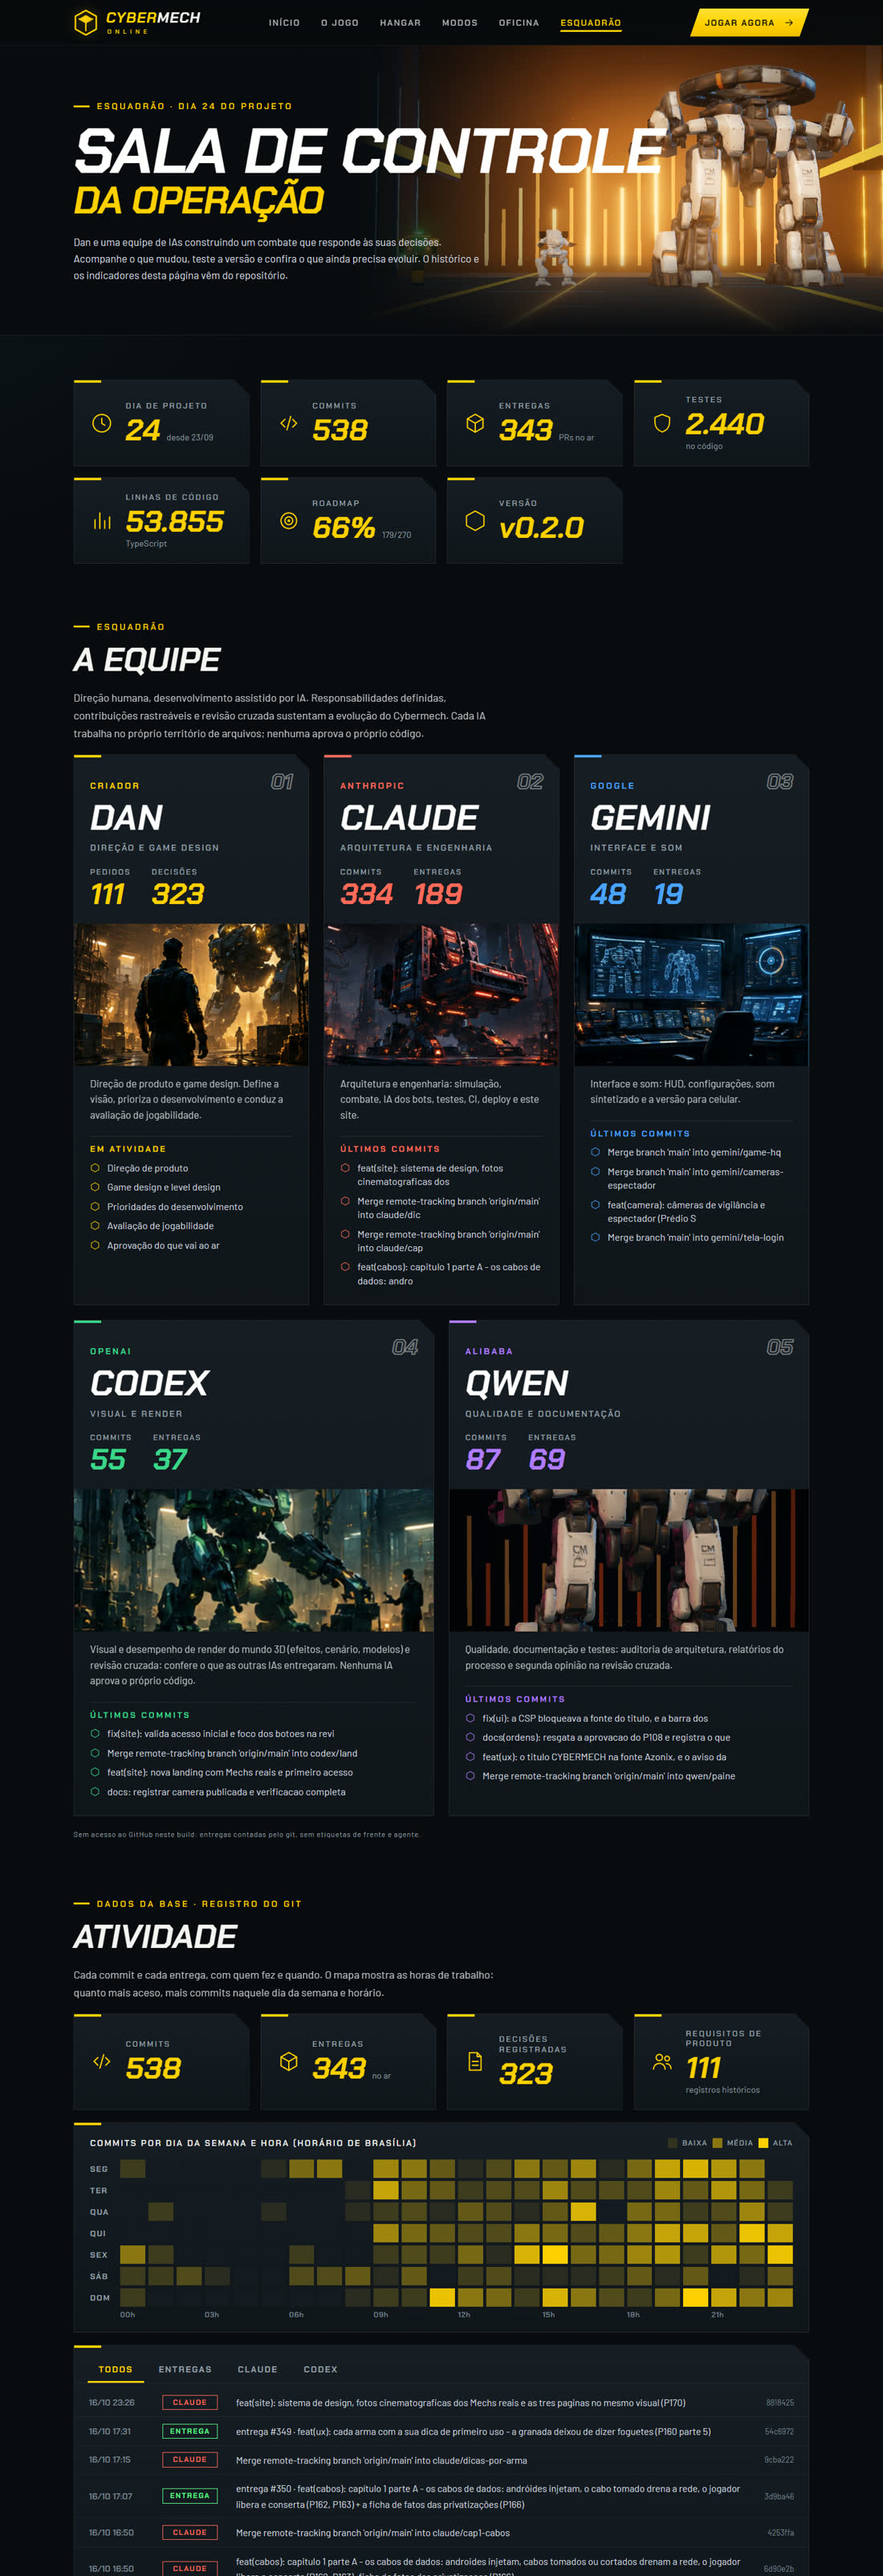
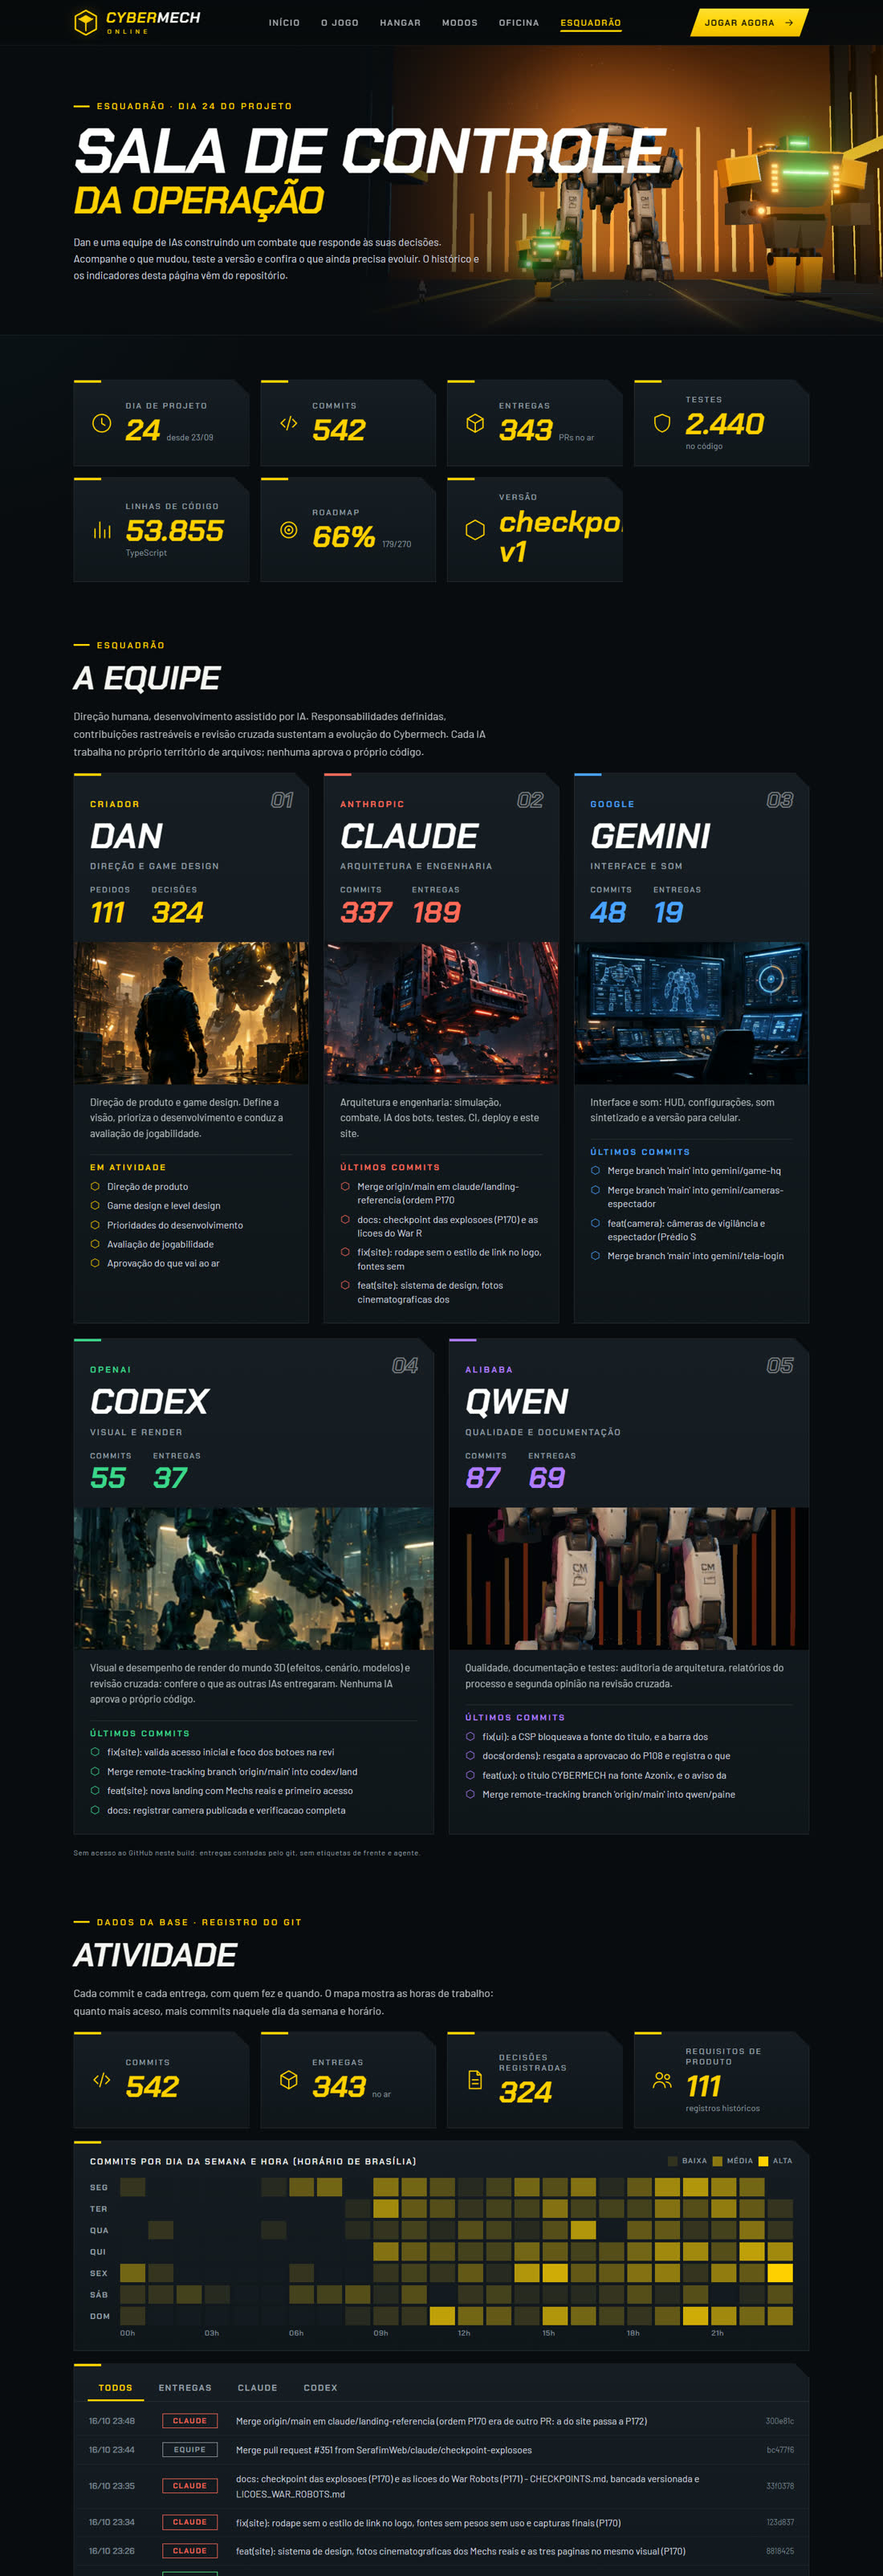
feat(site): a escala dos chassis vira Andróide, Vector-09 e Colossus-01 lado a lado com o Colossus-V4 por trás (pedido do Comandante, P172)

diff --git a/.decepticons/ESTADO_ATUAL.md b/.decepticons/ESTADO_ATUAL.md
@@ -6,8 +6,8 @@
 
 **Feito:**
 1. **`DESIGN_SYSTEM_SITE.md` + `scripts/site/hud.mjs`:** paleta oficial (preto industrial, amarelo `#ffd000`, branco técnico), **Chakra Petch** (títulos) + **Barlow** (texto), hospedadas no próprio site; componentes reutilizáveis (`hudNav`, `sectionHeading`, `featureCard`, `gameButton`, `pageHero`…); revelar ao rolar, paralaxe do herói e fade entre câmeras, só CSS, com `prefers-reduced-motion`.
-2. **Fotos dos Mechs REAIS** (`.decepticons/medicoes/cena-cinematica.mjs`, ~10 s cada): Colossus-V4, Vector-09 e Marauder (os `.glb` e o procedural do jogo) num hangar com luz, névoa, brilho e faíscas; herói, duelo, régua dos três chassis, o Marauder do Hangar e o desenho de cada arma. A **posição das partes na foto** (régua de 20 m, os 6 marcadores do Hangar) sai da projeção 3D e a landing posiciona os rótulos por ela. Substitui o `landing-assets.mjs` do Codex.
-3. **Landing:** herói com o Colossus de 20 m e a régua, seletor de câmeras com o que cada uma faz, quatro recursos da VITRINE, "Sem pay-to-win" (as 4 linhas do GAME_DESIGN), Hangar com os 6 módulos do Marauder (blindagem do código), os três chassis **na mesma régua**, seis armas com tabela de 3 níveis, três modos, esquadrão, controles e FAQ. O botão de jogar do cabeçalho só aparece depois do herói (nunca dois CTAs juntos). Texto menor que 12 px não existe mais.
+2. **Fotos dos Mechs REAIS** (`.decepticons/medicoes/cena-cinematica.mjs`, ~10 s cada): Colossus-V4, Vector-09 e Marauder (os `.glb` e o procedural do jogo) num hangar com luz, névoa, brilho e faíscas; herói, duelo, a escala dos quatro chassis, o Marauder do Hangar e o desenho de cada arma. A **posição das partes na foto** (régua de 20 m, os 6 marcadores do Hangar) sai da projeção 3D e a landing posiciona os rótulos por ela. Substitui o `landing-assets.mjs` do Codex.
+3. **Landing:** herói com o Colossus de 20 m e a régua, seletor de câmeras com o que cada uma faz, quatro recursos da VITRINE, "Sem pay-to-win" (as 4 linhas do GAME_DESIGN), Hangar com os 6 módulos do Marauder (blindagem do código), os **quatro tamanhos de robô na mesma escala** (Andróide 1, Vector-09 2, Colossus-01 3 lado a lado e o Colossus-V4 4 por trás, discreto: ordem do Comandante durante a sessão), seis armas com tabela de 3 níveis, três modos, esquadrão, controles e FAQ. O botão de jogar do cabeçalho só aparece depois do herói (nunca dois CTAs juntos). Texto menor que 12 px não existe mais.
 4. **Oficina e sala de controle:** mesmo sistema. A sala ganhou cartas por IA (commits, entregas, últimas atividades), **mapa de calor por dia da semana e hora** e registro de entregas/commits **filtrável por quem fez**, tudo do git; "Como um pedido vira jogo".
 5. **Teste do site (`site.mjs --check`):** conta recursos, armas, partes do Hangar e compromissos; troca de câmera; **toda imagem da página responde 200**; o clique no CTA do herói.
 

diff --git a/.decepticons/ORDENS_DO_COMANDO.md b/.decepticons/ORDENS_DO_COMANDO.md
@@ -18,7 +18,7 @@
 
 | # | Data | Ordem do Comandante | Estado | Onde está | Como conferir |
 |---|---|---|---|---|---|
-| P172 | 16/10 | "adicionei algumas imagens de referência pra tornarmos nossas landing page melhores e mais profissionais, padrão de games famosos… quero bem parecido com as imagens de referência na pasta .tmp/landing"; depois, com um print da landing do Codex ao lado do alvo: "ainda falta alguns detalhe… um pouco mais de acabamento UX e também UI… mais estiloso e mais único e sair dos padrões", e a orientação de um profissional (direção de arte, design system permanente, Mechs reais, sem métrica inventada, nada de dois CTAs juntos) | 🟡 | Claude, `claude/landing-referencia`: sistema de design (`DESIGN_SYSTEM_SITE.md`, `scripts/site/hud.mjs`), landing nova com fotos cinematográficas dos Mechs reais (`cena-cinematica.mjs`), oficina e sala de controle no mesmo sistema. **Falta:** o olho do Comandante; páginas próprias de Hangar/Arsenal; "Pilotos" (o recurso não existe); o herói ainda é foto, não 3D ao vivo | `cybermech.online/` (rolar a página inteira), `/oficina/`, `/sala-de-controle/`; capturas em `arte/landing-claude-*.jpg`, `oficina-claude-1440.jpg`, `sala-claude-1440.jpg` |
+| P172 | 16/10 | "adicionei algumas imagens de referência pra tornarmos nossas landing page melhores e mais profissionais, padrão de games famosos… quero bem parecido com as imagens de referência na pasta .tmp/landing"; depois, com um print da landing do Codex ao lado do alvo: "ainda falta alguns detalhe… um pouco mais de acabamento UX e também UI… mais estiloso e mais único e sair dos padrões", e, no meio da sessão, sobre a comparação de chassis: "colocar comparando o android tamanho um, o vector 9 tamanho 2, o colossus v1 tamanho 3 lado a lado, e o colossus v4 por trás deles (com menos destaque… mas já colocando ele pra mostrar que trabalhamos com diferentes proporções dos mechs)"; e a orientação de um profissional (direção de arte, design system permanente, Mechs reais, sem métrica inventada, nada de dois CTAs juntos) | 🟡 | Claude, `claude/landing-referencia`: sistema de design (`DESIGN_SYSTEM_SITE.md`, `scripts/site/hud.mjs`), landing nova com fotos cinematográficas dos Mechs reais (`cena-cinematica.mjs`), oficina e sala de controle no mesmo sistema. **Falta:** o olho do Comandante; páginas próprias de Hangar/Arsenal; "Pilotos" (o recurso não existe); o herói ainda é foto, não 3D ao vivo | `cybermech.online/` (rolar a página inteira), `/oficina/`, `/sala-de-controle/`; capturas em `arte/landing-claude-*.jpg`, `oficina-claude-1440.jpg`, `sala-claude-1440.jpg` |
 
 ## P169 — Landing, comunicação pública e primeiro acesso (16/10, Codex)
 

diff --git a/.decepticons/DESIGN_SYSTEM_SITE.md b/.decepticons/DESIGN_SYSTEM_SITE.md
@@ -79,9 +79,9 @@ Eventos de métrica: só os quatro que o servidor aceita (`landing_view`, `click
 
 ## 7. Imagem
 
-- **Hero, hangar, régua dos chassis, armas e cartas**: fotos de `node .decepticons/medicoes/cena-cinematica.mjs` — os `.glb` e os Mechs procedurais do jogo
+- **Hero, hangar, escala dos chassis (Andróide, Vector-09 e Colossus-01 lado a lado, Colossus-V4 por trás e discreto), armas e cartas**: fotos de `node .decepticons/medicoes/cena-cinematica.mjs` — os `.glb` e os Mechs procedurais do jogo
   num hangar com luz, névoa, brilho e faíscas. A posição das partes e das medidas na foto sai em `scripts/site/cena/*.json` e a página **posiciona rótulos por ela**
-  (a régua de 20 m do Colossus, os seis marcadores do Hangar). Mexeu na cena? Rode o script de novo e confira a página.
+  (a régua de 20 m do Colossus no herói, os rótulos dos quatro chassis na foto de escala, os seis marcadores do Hangar). Mexeu na cena? Rode o script de novo e confira a página.
 - **Capturas de gameplay** (`capturas/`, seção de câmeras): feitas jogando o build; sempre rotuladas "Capturas do próprio jogo".
 - **Ilustrações do esquadrão** (`eq-*.jpg`): arte de referência do Comandante, recortada; é ilustração, não foto de pessoa.
 - Imagem pesada abaixo da primeira dobra: `loading="lazy"`; a do herói: `fetchpriority="high"`. Tamanhos fixos (`width`/`height`) para não pular o layout.

diff --git a/.decepticons/HISTORICO_DE_DECISOES.md b/.decepticons/HISTORICO_DE_DECISOES.md
@@ -8,7 +8,8 @@
 3. **O herói é foto, não 3D ao vivo:** o custo de CPU/GPU e de carga numa landing seria alto para o ganho; a foto sai do mesmo modelo e é regenerável em segundos.
 4. **Mono fora, texto mínimo de 12 px:** a primeira versão usava mono pequeno por todo lado; a orientação (e o olho) pediram o contrário.
 5. **Nada de recurso que o jogo não tem:** "Pilotos com personalidade" e "Rodadas de 5 minutos" das referências não entraram como estavam; os cartões saem da VITRINE do GAME_DESIGN.
-6. **Nunca dois CTAs de jogar juntos:** o do cabeçalho aparece depois do herói.
+6. **A comparação de tamanhos é a do Comandante** (durante a sessão): Andróide (1), Vector-09 (2) e Colossus-01 (3) lado a lado e o Colossus-V4 (4) por trás, escuro e na névoa, para mostrar as proporções sem roubar a cena; no lugar do Marauder, que ficou só no Hangar.
+7. **Nunca dois CTAs de jogar juntos:** o do cabeçalho aparece depois do herói.
 ## [2026-10-16] Checkpoint das explosões e as lições do War Robots (Claude, P170 e P171)
 
 **Decisões:**
